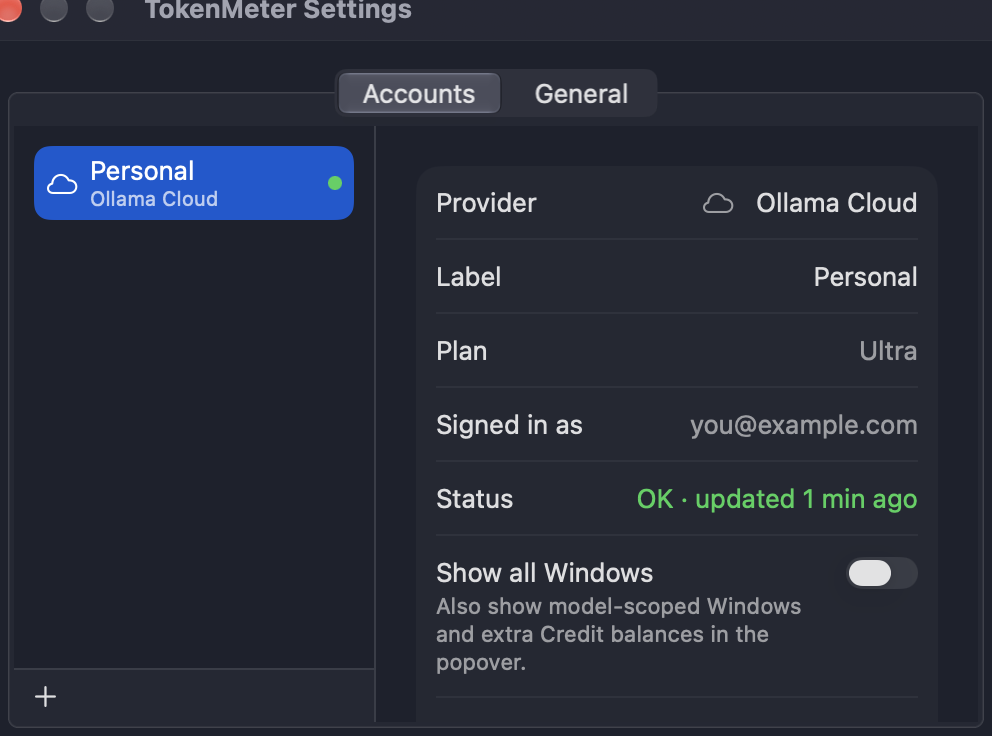
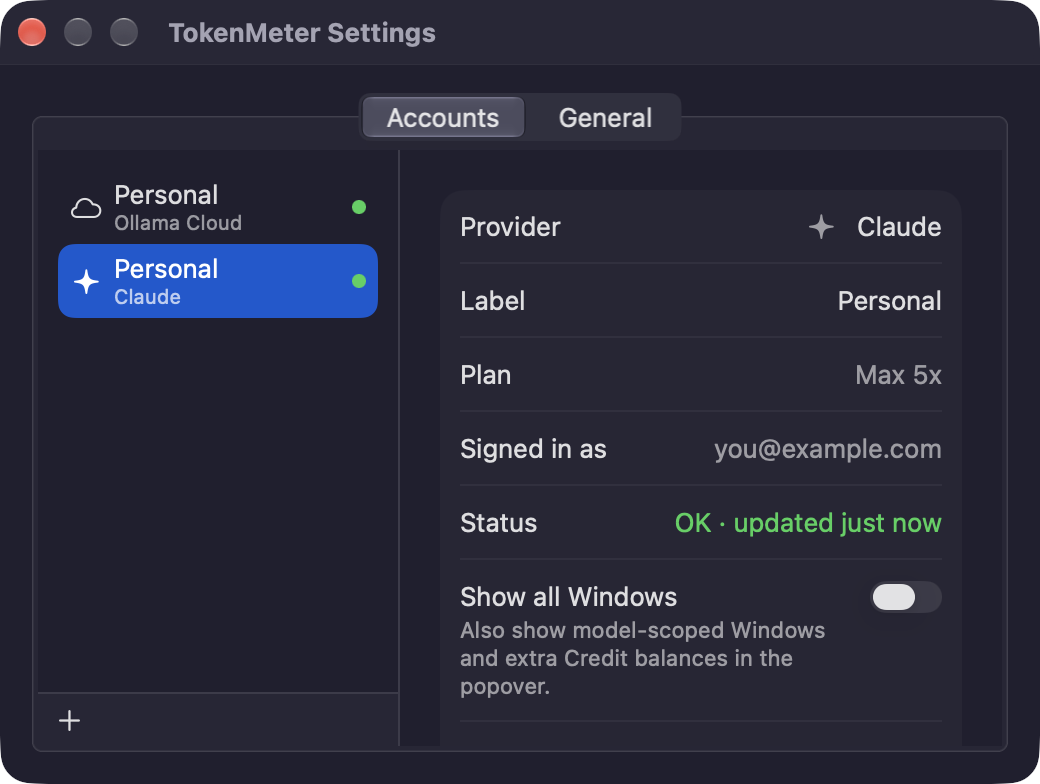
webpage update

diff --git a/docs/index.html b/docs/index.html
@@ -218,9 +218,9 @@
     <section>
       <div class="split">
         <div>
-          <img class="shot" src="popover.png" width="333" height="167" loading="lazy"
-               alt="TokenMeter's popover showing usage windows, reset times and credit balances for several AI accounts" />
-          <p class="caption">The popover: every window and credit balance, refreshed automatically.</p>
+          <img class="shot" src="popover.png" width="326" height="216" loading="lazy"
+               alt="TokenMeter's popover showing Ollama Cloud monthly credits and Claude Max session and weekly usage windows with reset times" />
+          <p class="caption">The popover: Ollama Cloud credits and Claude's session and weekly windows, refreshed automatically.</p>
         </div>
         <div>
           <h2>Usage at a glance</h2>
@@ -246,9 +246,9 @@
           </p>
         </div>
         <div>
-          <img class="shot" src="settings.png" width="496" height="368" loading="lazy"
-               alt="TokenMeter's Settings window with an Ollama Cloud account selected (Plan Ultra, signed in as a masked address, status OK)" />
-          <p class="caption">Settings: your accounts, add more, sign in, or remove.</p>
+          <img class="shot" src="settings.png" width="520" height="392" loading="lazy"
+               alt="TokenMeter's Settings window listing an Ollama Cloud and a Claude account, with the Claude account selected (Plan Max 5x, signed in as a masked address, status OK)" />
+          <p class="caption">Settings: Ollama Cloud and Claude accounts, add more, sign in, or remove.</p>
         </div>
       </div>
     </section>
